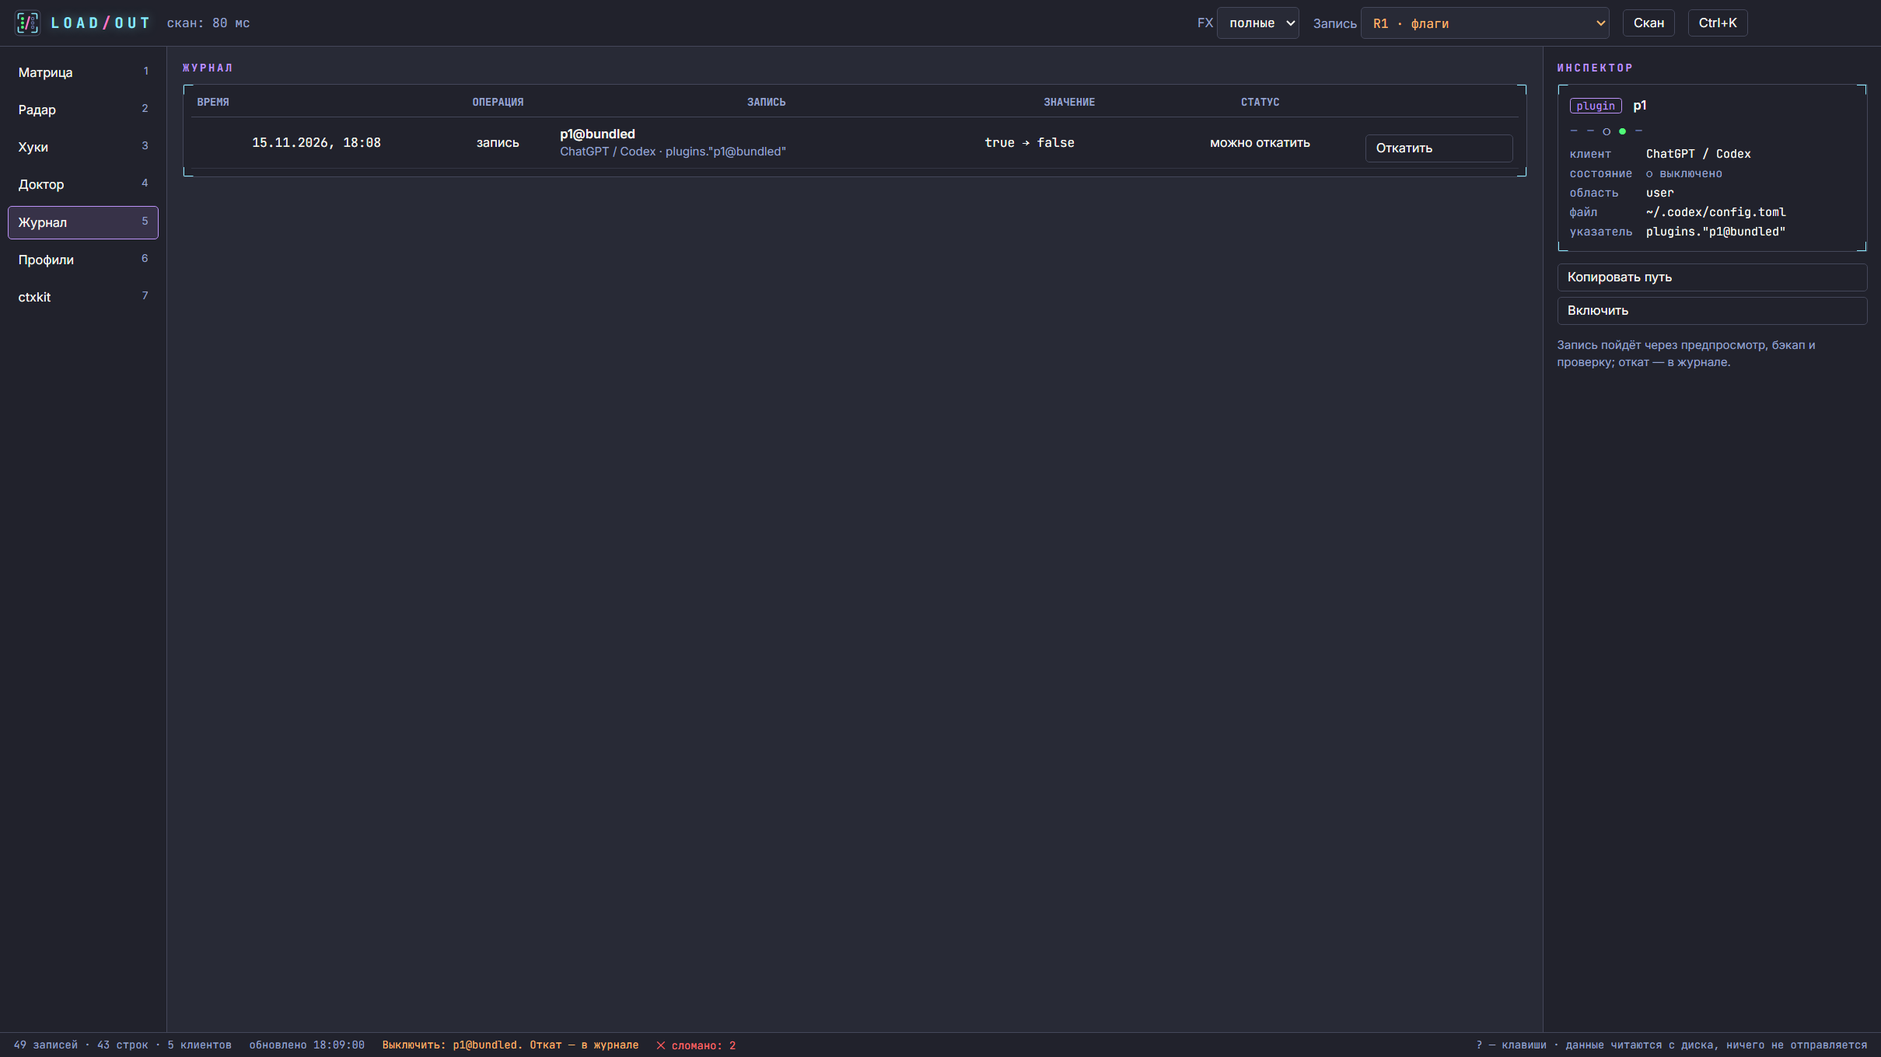
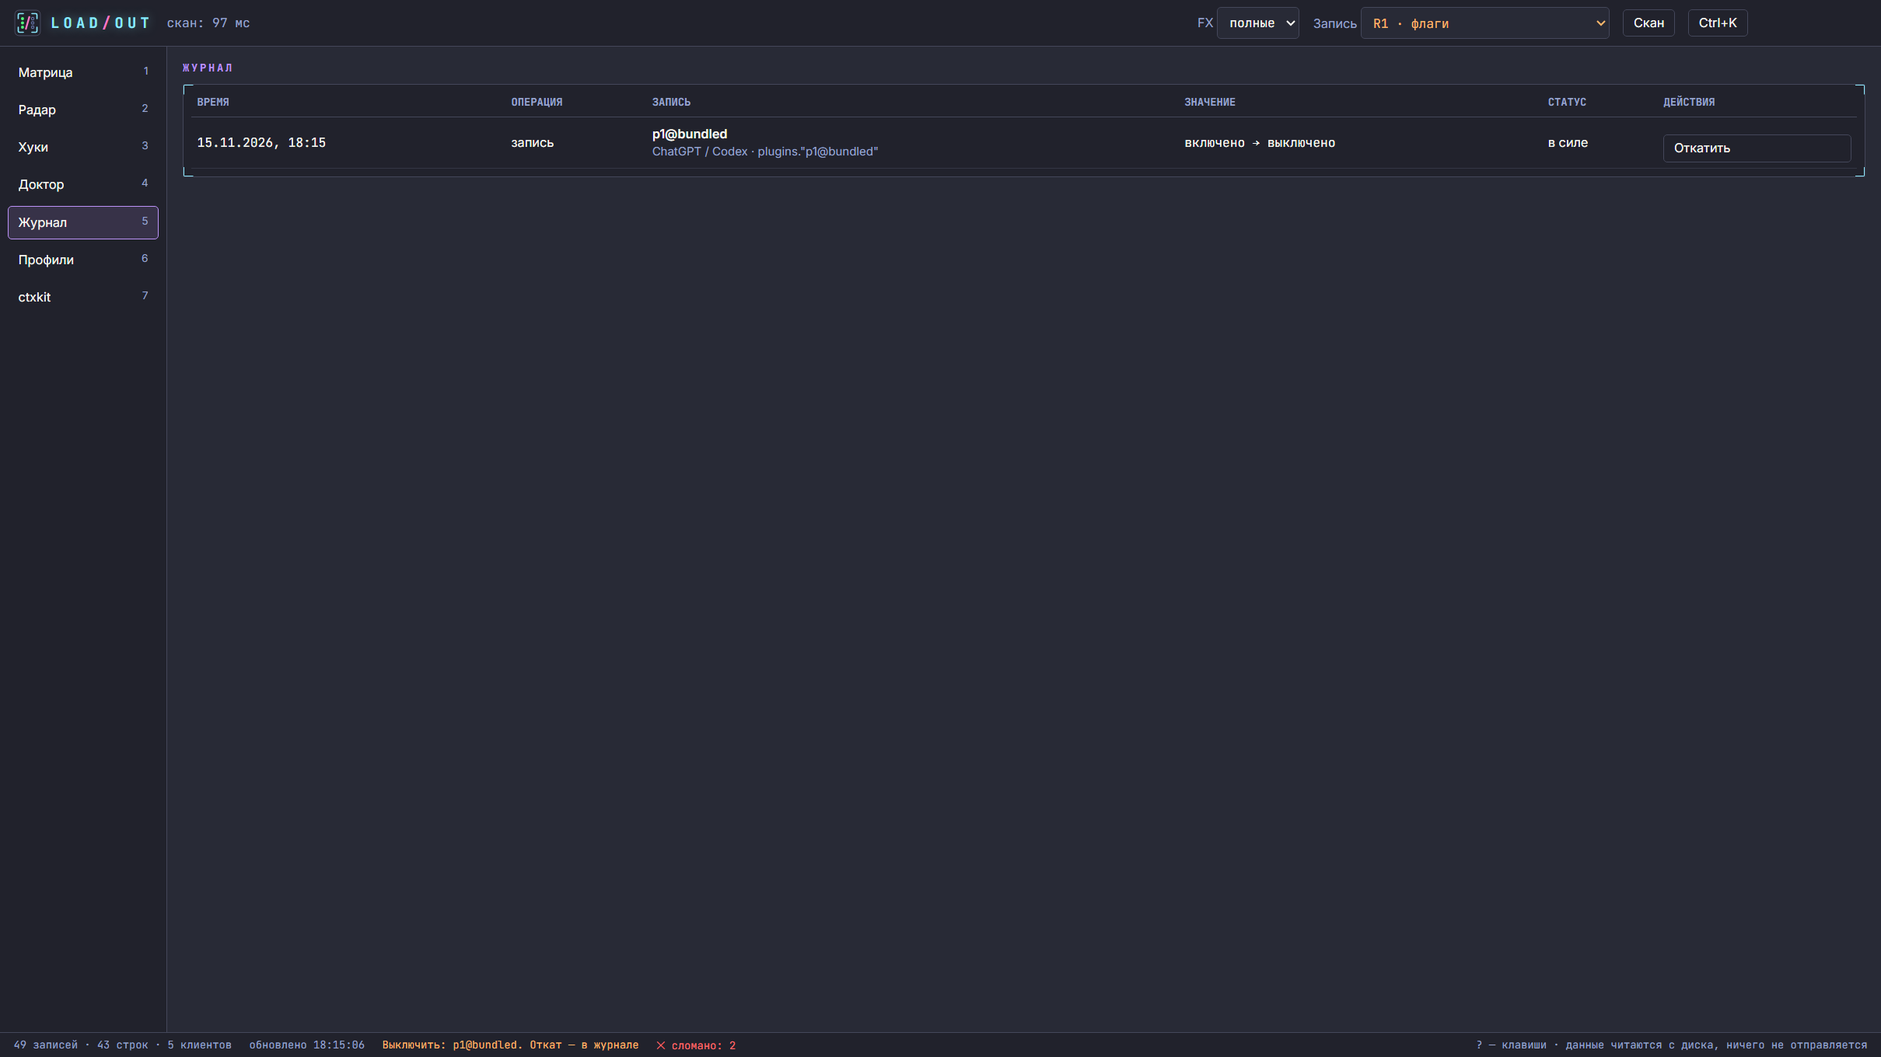
UI after the screenshot critique: values in words, matrix header sticks, inspector only in the matrix, aligned tables, limited page width, minor dialog fixes; updated screenshots

diff --git a/app/src/renderer/styles.css b/app/src/renderer/styles.css
@@ -58,7 +58,18 @@ footer > span.sp { flex: 1; min-width: 0; }
 footer > #notice { flex: 0 1 auto; min-width: 0; overflow: hidden; text-overflow: ellipsis; }
 footer > span:last-child { flex: 0 1 auto; min-width: 0; overflow: hidden; text-overflow: ellipsis; }
 td.nw { white-space: nowrap; }
-td.vcell { max-width: 260px; text-align: left; }
+td.vcell { max-width: 260px; text-align: left; word-break: normal; overflow-wrap: break-word; }
+/* таблицы с текстом (журнал, дни ctxkit): и заголовки, и ячейки по левому краю, чтобы колонки читались */
+table.left th, table.left td { text-align: left; }
+table.left td.name { word-break: normal; overflow-wrap: break-word; }
+/* без инспектора (разделы кроме матрицы): страница на всю ширину, строки текста не растягиваются */
+#app.noaside { grid-template-columns: 172px 1fr; }
+#app.noaside header, #app.noaside footer { grid-column: 1 / 3; }
+aside[hidden] { display: none; }
+.page { max-width: 980px; }
+.form select { max-width: 360px; }
+button.danger { border-color: var(--red); color: var(--red-text); }
+button.danger:hover:not(:disabled) { background: rgba(255, 85, 85, 0.12); border-color: var(--red); }
 .logo { font: 700 15px var(--mono); letter-spacing: 0.28em; color: var(--cyan); text-shadow: 0 0 10px rgba(139, 233, 253, 0.55); }
 .logo i { color: var(--pink); font-style: normal; }
 
@@ -97,7 +108,8 @@ body.paused * { animation-play-state: paused !important; }
 .bar { display: flex; flex-wrap: wrap; gap: 8px; align-items: center; margin-bottom: 10px; }
 .bar .chip[aria-pressed='true'] { border-color: var(--pink); background: rgba(255, 121, 198, 0.12); }
 .check { display: inline-flex; gap: 6px; align-items: center; color: var(--mute); }
-.tablewrap { padding: 2px 8px 8px; overflow-x: auto; }
+/* `clip`, а не `auto`: у `auto` прокручиваемым предком становилась обёртка и шапка таблицы (sticky) не залипала при прокрутке страницы */
+.tablewrap { padding: 2px 8px 8px; overflow-x: clip; }
 table { border-collapse: collapse; width: 100%; }
 th { font: 600 11px var(--mono); text-align: center; color: var(--mute); padding: 8px 6px; border-bottom: 1px solid var(--line); background: var(--panel); position: sticky; top: 0; z-index: 2; }
 th:first-child { text-align: left; }
@@ -184,7 +196,8 @@ button.level[aria-pressed='true'] { border-color: var(--orange); background: rgb
 .form label { display: flex; flex-direction: column; gap: 4px; color: var(--mute); }
 .form input, .form textarea, select { background: var(--bg); border: 1px solid var(--line); border-radius: 4px; padding: 6px 8px; color: var(--fg); font: 13px var(--mono); }
 .form textarea { resize: vertical; min-height: 80px; }
-.choices { border: 1px solid var(--line); border-radius: 4px; padding: 8px 10px; margin: 8px 0; display: flex; flex-direction: column; gap: 6px; }
+.choices { border: 0; padding: 0; margin: 8px 0; display: flex; flex-direction: column; gap: 6px; }
+.choices legend { padding: 0 0 4px; }
 .choices label, .form .choices label { display: flex; flex-direction: row; gap: 8px; align-items: center; color: var(--fg); }
 .cards { display: flex; flex-direction: column; gap: 12px; }
 .card h3 { margin: 0 0 8px; font: 600 12px var(--mono); letter-spacing: 0.12em; text-transform: uppercase; color: var(--cyan); }

diff --git a/app/src/renderer/views/Ctxkit.tsx b/app/src/renderer/views/Ctxkit.tsx
@@ -86,7 +86,7 @@ export function Ctxkit({ level, onNotice }: Props) {
   const canApply = level === 'R2' && previewKey === key && !busy
 
   return (
-    <>
+    <div className="page">
       <h2>ctxkit</h2>
       <p className="mute small">
         Встроенный набор, который держит контекст агентов в рамках: ограничивает чтение целых файлов, ловит битые экранирования, сжимает вывод сборок и переключает рутину на дешёвые модели. Хуки пишутся в настройки клиентов, поэтому применение требует уровня R2.
@@ -120,7 +120,7 @@ export function Ctxkit({ level, onNotice }: Props) {
         >
           <fieldset className="choices">
             <legend className="mute small">Что настроить</legend>
-            <label><input type="checkbox" checked disabled /> Claude Code: хуки, модели, агенты Explore и checker</label>
+            <label><input type="checkbox" checked disabled /> Claude Code: хуки, модели, агенты Explore и checker (всегда)</label>
             <label><input type="checkbox" checked={opts.withRules} onChange={(e) => change({ withRules: e.target.checked })} /> Блок правил в CLAUDE.md</label>
             <label><input type="checkbox" checked={opts.desktop} onChange={(e) => change({ desktop: e.target.checked })} /> Claude Desktop (пресеты; закройте его перед применением)</label>
             <label><input type="checkbox" checked={opts.antigravity} onChange={(e) => change({ antigravity: e.target.checked })} /> Antigravity</label>
@@ -216,7 +216,7 @@ export function Ctxkit({ level, onNotice }: Props) {
             <p className="mute small">
               Вызовы по агентам: {sum.agents.length ? sum.agents.map(([k, n]) => `${k} ×${n}`).join(', ') : 'нет'}.
             </p>
-            <table aria-label="Ходы по дням">
+            <table className="left" aria-label="Ходы по дням">
               <thead>
                 <tr>
                   <th scope="col">ДЕНЬ</th>
@@ -250,6 +250,6 @@ export function Ctxkit({ level, onNotice }: Props) {
         ) : null}
         <div className="actions col"><button onClick={reloadReport}>Пересчитать</button></div>
       </section>
-    </>
+    </div>
   )
 }

diff --git a/app/src/renderer/views/Journal.tsx b/app/src/renderer/views/Journal.tsx
@@ -73,7 +73,7 @@ export function Journal({ level, refreshKey, onNotice }: Props) {
         </div>
       ) : (
         <div className="hud tablewrap">
-          <table aria-label="Журнал операций">
+          <table className="left" aria-label="Журнал операций">
             <thead>
               <tr>
                 <th scope="col">ВРЕМЯ</th>
@@ -81,7 +81,7 @@ export function Journal({ level, refreshKey, onNotice }: Props) {
                 <th scope="col">ЗАПИСЬ</th>
                 <th scope="col">ЗНАЧЕНИЕ</th>
                 <th scope="col">СТАТУС</th>
-                <th scope="col" />
+                <th scope="col">ДЕЙСТВИЯ</th>
               </tr>
             </thead>
             <tbody>
@@ -102,7 +102,7 @@ export function Journal({ level, refreshKey, onNotice }: Props) {
                       <div className="mute small">{CLIENTS.find((c) => c.id === j.client)?.name} · {j.pointer}</div>
                     </td>
                     <td className="mono vcell wrap">{j.from} → {j.to}</td>
-                    <td className="nw">{j.rolledBack ? '↺ откатано' : j.op === 'rollback' ? 'откат записан' : j.canRollback ? 'можно откатить' : 'уже менялось'}</td>
+                    <td className="nw">{j.rolledBack ? '↺ откатано' : j.op === 'rollback' ? 'откат записан' : j.canRollback ? 'в силе' : 'уже менялось'}</td>
                     <td>
                       <div className="actions col">
                         <button

diff --git a/app/src/renderer/views/Profiles.tsx b/app/src/renderer/views/Profiles.tsx
@@ -141,7 +141,7 @@ export function Profiles({ level, onNotice, refreshKey }: Props) {
   const canApply = levelOk(level, 'R2')
   const nameOk = /^[\p{L}\p{N} _.-]{1,40}$/u.test(name) && name.trim() === name
   return (
-    <>
+    <div className="page">
       <h2>Профили</h2>
       <div className="hud card">
         <form
@@ -209,7 +209,7 @@ export function Profiles({ level, onNotice, refreshKey }: Props) {
                   >
                     Сохранить изменения
                   </button>
-                  <button onClick={() => void run(window.loadout.deleteProfile(p.name), `Профиль «${p.name}» удалён`)}>Удалить профиль</button>
+                  <button className="danger" onClick={() => void run(window.loadout.deleteProfile(p.name), `Профиль «${p.name}» удалён`)}>Удалить профиль</button>
                 </div>
               </section>
             )
@@ -226,6 +226,6 @@ export function Profiles({ level, onNotice, refreshKey }: Props) {
           }}
         />
       ) : null}
-    </>
+    </div>
   )
 }

diff --git a/app/src/renderer/App.tsx b/app/src/renderer/App.tsx
@@ -291,7 +291,7 @@ export function App() {
   const problems = findings.filter((f) => f.severity === 'error').length
 
   return (
-    <div id="app">
+    <div id="app" className={view === 'matrix' ? undefined : 'noaside'}>
       <header>
         <span className="brand">
           <Logo />
@@ -366,7 +366,8 @@ export function App() {
         )}
       </main>
 
-      <aside aria-label="Инспектор">
+      {/* инспектор показывает запись матрицы: в других разделах он не относится к экрану и скрыт */}
+      <aside aria-label="Инспектор" hidden={view !== 'matrix'}>
         <Inspector
           row={selRow}
           sel={sel}

diff --git a/app/src/renderer/views/PlanDialog.tsx b/app/src/renderer/views/PlanDialog.tsx
@@ -76,7 +76,10 @@ export function PlanDialog({ entity, intent, onClose, onDone }: Props) {
         {title(plan, intent)} {plan ? <span className="lvl">{plan.level}</span> : null}
       </h2>
       <p>
-        <b>{entity.name}</b> <span className="mute">· {client}</span>
+        <b>{entity.name}</b>{' '}
+        <span className="mute">
+          · {plan?.op === 'copy' ? `${CLIENTS.find((c) => c.id === entity.client)?.name ?? entity.client} → ${client}` : client}
+        </span>
       </p>
       {state.status === 'loading' ? (
         <p className="mute" role="status">Строю план…</p>

diff --git a/app/src/renderer/views/EditDialog.tsx b/app/src/renderer/views/EditDialog.tsx
@@ -19,7 +19,9 @@ export function EditDialog({ entity, onSubmit, onClose }: Props) {
   const ok = command.trim() !== '' && command.length <= 500 && lines.length <= 64 && lines.every((l) => l.length <= 500)
   return (
     <Modal label={`Править команду: ${entity.name}`} onEscape={onClose}>
-      <h2>Править команду</h2>
+      <h2>
+        Править команду <span className="lvl">R2</span>
+      </h2>
       <p>
         <b>{entity.name}</b>
       </p>

diff --git a/app/src/renderer/views/CopyDialog.tsx b/app/src/renderer/views/CopyDialog.tsx
@@ -17,7 +17,9 @@ export function CopyDialog({ entity, onSubmit, onClose }: Props) {
   const [to, setTo] = useState<ClientId | null>(null)
   return (
     <Modal label={`Копировать в другой клиент: ${entity.name}`} onEscape={onClose}>
-      <h2>Копировать в клиент</h2>
+      <h2>
+        Копировать в клиент <span className="lvl">R2</span>
+      </h2>
       <p>
         <b>{entity.name}</b>
       </p>

diff --git a/crates/loadout-core/tests/write.rs b/crates/loadout-core/tests/write.rs
@@ -139,7 +139,7 @@ fn toggle_roundtrip_changes_one_value_and_rolls_back_to_identical_bytes() {
     );
     let original = fs::read_to_string(codex_cfg(&e)).unwrap();
     let p = plan(&e.home, &id, false).unwrap();
-    assert!(!p.noop && (p.from.as_str(), p.to.as_str()) == ("true", "false"));
+    assert!(!p.noop && (p.from.as_str(), p.to.as_str()) == ("включено", "выключено"));
 
     let done = apply(&e.home, &e.store, &id, false, &p.base_sha).unwrap();
     let after = fs::read_to_string(codex_cfg(&e)).unwrap();
@@ -254,7 +254,8 @@ fn connectors_share_one_key_and_the_plan_says_so() {
     assert!(conns.len() >= 2, "в фикстуре несколько коннекторов");
     assert!(conns.iter().all(|c| c.state == State::Off));
     let p = plan(&e.home, &conns[0].id, true).unwrap();
-    assert_eq!((p.from.as_str(), p.to.as_str()), ("true", "false"));
+    // у `disableClaudeAiConnectors` значение `true` значит «выключено»: словами это видно без знания ключа
+    assert_eq!((p.from.as_str(), p.to.as_str()), ("выключено", "включено"));
     assert_eq!(p.affects.len(), conns.len() - 1);
     apply(&e.home, &e.store, &conns[0].id, true, &p.base_sha).unwrap();
     let r = loadout_core::scan(&e.home);
@@ -387,7 +388,7 @@ fn codex_app_flag_toggles_through_the_apps_table() {
         "demo-app",
     );
     let p = plan(&e.home, &id, true).unwrap();
-    assert_eq!((p.from.as_str(), p.to.as_str()), ("false", "true"));
+    assert_eq!((p.from.as_str(), p.to.as_str()), ("выключено", "включено"));
     apply(&e.home, &e.store, &id, true, &p.base_sha).unwrap();
     assert_eq!(state_of(&e.home, &id), Some(State::On));
     let text = fs::read_to_string(codex_cfg(&e)).unwrap();

diff --git a/crates/loadout-core/src/write.rs b/crates/loadout-core/src/write.rs
@@ -264,8 +264,19 @@ fn prep_toggle(
             // `disableClaudeAiConnectors: true` значит «выключено»
             let want = enable != t.inverted;
             plan.noop = cur == Some(want) || (cur.is_none() && enabled(e.state) == Some(enable));
-            plan.from = cur.map_or_else(|| "не задан".to_owned(), |b| b.to_string());
-            plan.to = want.to_string();
+            // Словами «включено/выключено», а не значением ключа: у `disableClaudeAiConnectors` `true` значит «выключено».
+            let word = |on: bool| {
+                if on {
+                    "включено"
+                } else {
+                    "выключено"
+                }
+            };
+            plan.from = cur.map_or_else(
+                || "не задан".to_owned(),
+                |b| word(b != t.inverted).to_owned(),
+            );
+            plan.to = word(enable).to_owned();
             if !plan.noop {
                 new = edit::set_bool(t.format, &text, &t.path, want)?.into_bytes();
             }

diff --git a/crates/loadoutd/tests/serve.rs b/crates/loadoutd/tests/serve.rs
@@ -460,7 +460,7 @@ fn write_methods_refuse_without_backups_but_plan_works() {
     let mut s = Server::start();
     let id = entity_id(&s.call("snapshot"), "codex", "p1@bundled");
     let plan = s.call_with("plan", json!({ "entity": id, "enable": false }));
-    assert_eq!(plan["result"]["to"], "false", "{plan}");
+    assert_eq!(plan["result"]["to"], "выключено", "{plan}");
     for (m, p) in [
         (
             "apply",

diff --git a/docs/CONCEPT.md b/docs/CONCEPT.md
@@ -425,6 +425,8 @@ HUD-эффекты — только то, что дёшево:
 
 **Знак** (`app/build/icon.svg`, он же компонент `Logo.tsx` и `build/icon.png` для значка окна и установщика): панель с угловыми скобками HUD, слева три заполненных кружка (●, «загружено», как в матрице), справа три пустых (○, «выключено»), между ними розовый слэш из названия LOAD/OUT. Цвета только из палитры §8. PNG получается скриптом `scripts/make-icon.cjs` (растеризация через Electron). Значок самого exe в сборке без подписи не прописывается (`signAndEditExecutable: false`, §10.6), поэтому значок окна и панели задач задаётся из `resources/icon.png`.
 
+**Критика снимков подагентом (по `ui-check.md`) и что исправлено.** P0: слово «false» рвалось посреди слова в журнале (`word-break: break-all` у колонки значения) — теперь значения словами «включено → выключено» (ядро выдаёт слова с учётом инверсии ключа: у `disableClaudeAiConnectors` `true` значит «выключено»), перенос только по пробелам; шапка матрицы не залипала при прокрутке (обёртка таблицы с `overflow-x: auto` становилась прокручиваемым предком) — теперь `overflow-x: clip`. P1: инспектор записи матрицы торчал в «Профилях», ctxkit, журнале и других разделах — теперь он скрыт везде, кроме матрицы (страница занимает всю ширину, текстовые страницы ограничены 980 px, селекты 360 px); заголовки журнала и дней ctxkit разъехались с ячейками — выровнены по левому краю, у колонки кнопок есть заголовок «ДЕЙСТВИЯ»; в диалоге копирования явно «источник → получатель»; метка R2 у диалогов правки и копирования; «Удалить профиль» выделено как опасное; fieldset ctxkit без второй рамки; «в силе» вместо дубля «можно откатить». Не исправлено: два акцента «выбрано» (сайдбар фиолетовый, чипы розовые), кнопка главного действия названа везде «Применить» (а не по операции), подписи мелким приглушённым цветом без измерения контраста (контраст проверяет axe в e2e).
+
 ## 11. Риски и открытые вопросы
 
 - **Форматы неофициальные.** Любой апдейт клиента может их поменять. Смягчение: версия адаптера, `unknown` вместо падения, golden-тесты.
